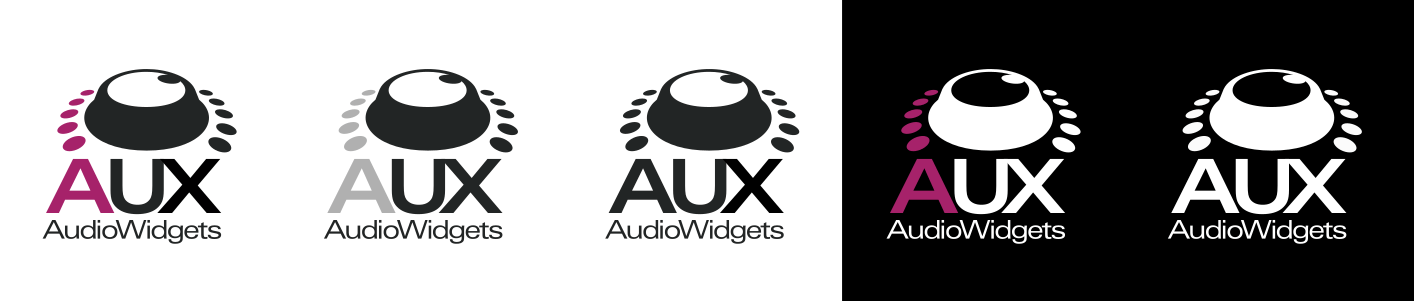
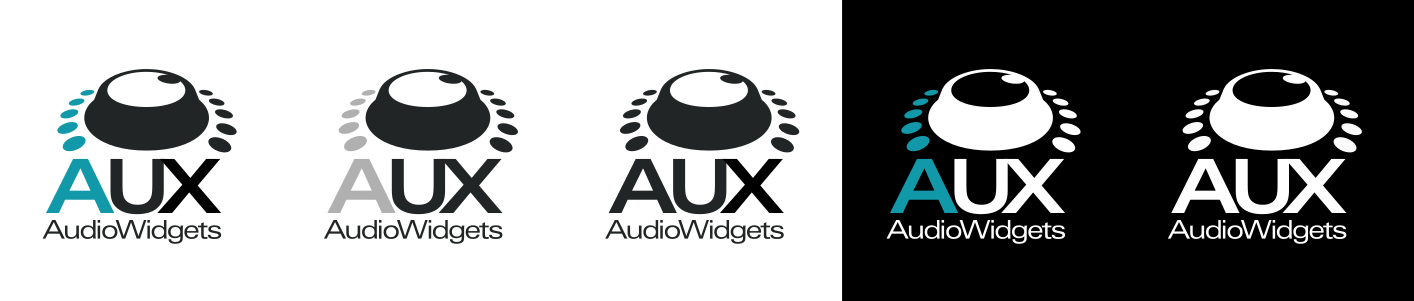
Overall change in color/ci. Not cast in stone due to missing monitor.

diff --git a/styles/aux.css b/styles/aux.css
@@ -43,7 +43,7 @@
     --aux-widget-base: #FFFFFF;
     --aux-widget-text: var(--aux-main-text);
     
-    --aux-active-base: #A6226A;
+    --aux-active-base: #1199AA;
     --aux-active-text: #FFFFFF;
     
     --aux-warn-base: #FF9900;
@@ -228,7 +228,7 @@
     background: var(--aux-active-base);
 }
 .aux-meter .aux-mask {
-    background: var(--aux-widget-base);
+    background: var(--aux-main-base);
     opacity: 0.86;
 }
 
@@ -319,7 +319,7 @@
 /* STATE */
 
 .aux-state {
-    background: var(--aux-active-base);
+    background: var(--aux-warn-base);
 }
 
 /* VALUE */

diff --git a/examples/ColorPicker.html b/examples/ColorPicker.html
@@ -1,1 +1,1 @@
-<aux-colorpicker hue=0.33 saturation=0.66 lightness=0.5></aux-colorpicker>
+<aux-colorpicker hex="#1199AA"></aux-colorpicker>
